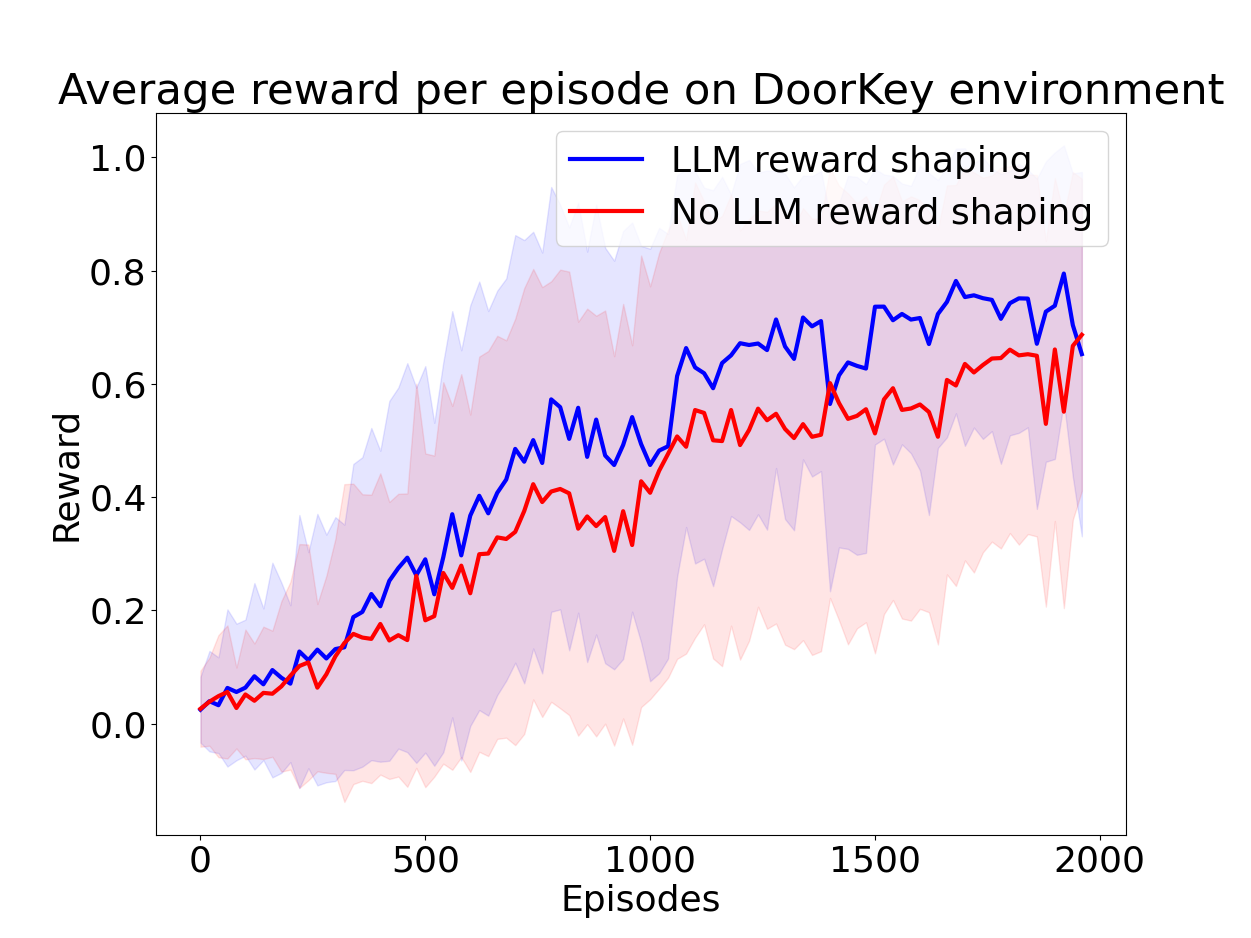
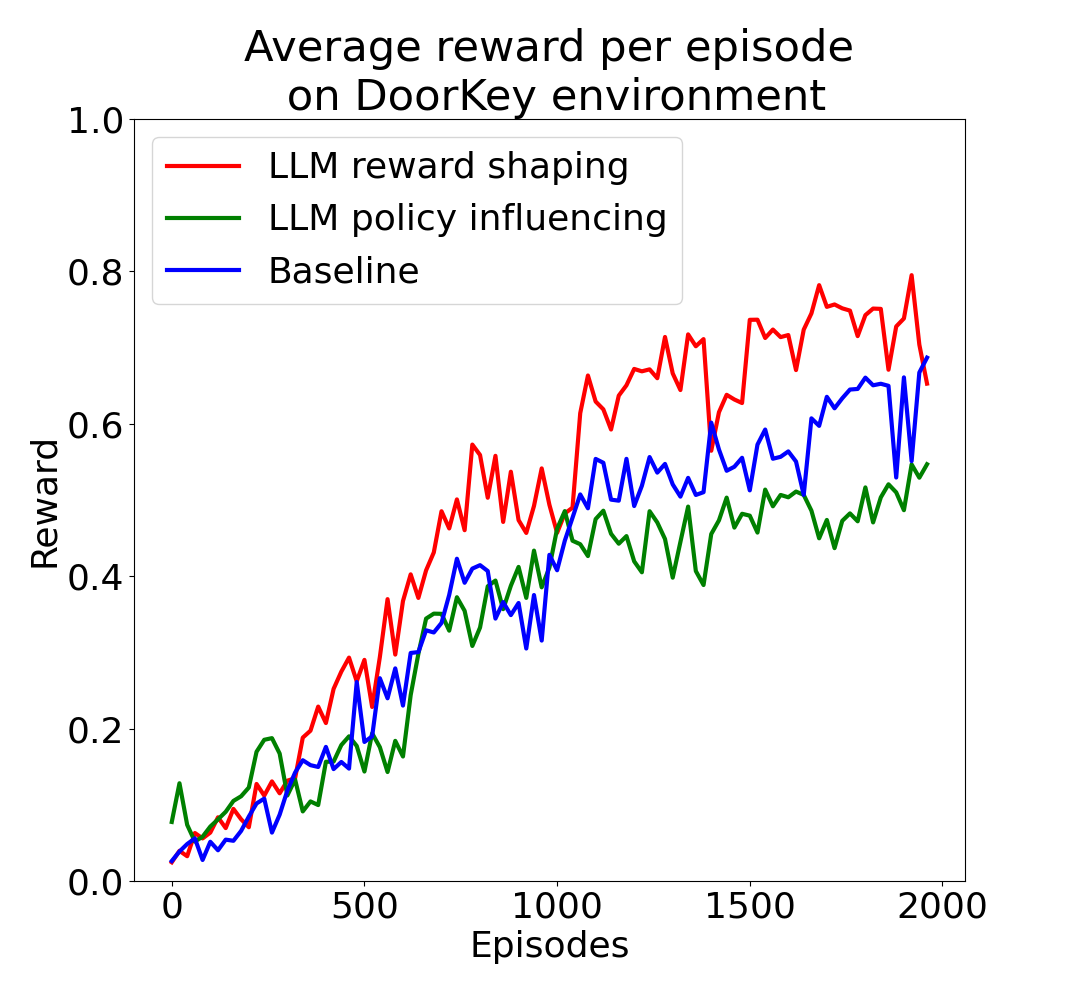
Update paper

diff --git a/doc/paper.tex b/doc/paper.tex
@@ -82,12 +82,12 @@ We train a PPO model in a Partially Observable Markov Decision Process (POMDP). 
 
 \subsection{Approach}
 
-To evaluate the effectiveness of the integration of LLMs into Reinforcement Learning algorithms, we use the \textbf{MiniGrid} and \textbf{BabyAI} libraries. Here, we handpick specific environments with varying levels of complexity, to evaluate the effectiveness of our proposed techniques against a standard Actor-Critic \ref{Proximal policy optimzation}, and against each other. The environments selected are all based in a small sized grid-world, where the agent is surrounded by walls, and has to perform at least one task to complete the game. How difficult an environment is to beat depends on factors such as the shape of the walls, whether the agent has to solve subtasks to finish the game, and the types of subtasks encountered. Moreover, what makes these environments especially well suited for testing our approach is that they are sparse in the context of MiniGrid and BabyAI. This means that the agent will only receive a reward when it finishes the game. It is a well known fact that even state-of-art RL algorithms struggle in very complex and sparse environments. Therefore, it becomes the perfect arena to see if the high generalization capabilites of pre-trained Large Language Models will lead to better results than using only RL methods.
+To evaluate the effectiveness of the integration of LLMs into Reinforcement Learning algorithms, we use the MiniGrid library. Here, we handpick specific environments with varying levels of complexity, to evaluate the effectiveness of our proposed techniques against a standard Actor-Critic PPO, and against each other. % The environments selected are all based in a small sized grid-world, where the agent is surrounded by walls, and has to perform at least one task to complete the game. How difficult an environment is to beat depends on factors such as the shape of the walls, whether the agent has to solve subtasks to finish the game, and the types of subtasks encountered. Moreover, what makes these environments especially well suited for testing our approach is that they are sparse in the context of MiniGrid and BabyAI. This means that the agent will only receive a reward when it finishes the game. It is a well known fact that even state-of-art RL algorithms struggle in very complex and sparse environments. Therefore, it becomes the perfect arena to see if the high generalization capabilites of pre-trained Large Language Models will lead to better results than using only RL methods.
 
 
 \subsubsection{Standard Proximal Policy Optimization}
 
-Our baseline is the \textbf{Proximal Policy Optimization} (PPO) algorithm, which has been established as a state-of-art approach to solving reinforcement learning problems over the last few years. The main idea behind this algorithm is that the new policy is clipped so that it does not move too quickly and too far from the old policy, i.e. the new policy cannot diverge too much from the old policy. This helps to avoid exceedingly large updates to policy gradients, thus also avoiding the problem of vanishing and exploding gradients. This has elevated the ability of RL-techniques to tackle sparse environments, and outperform older approches such as DQN. For a more detailed discussion of the mathematics and implementation details, see \cite{OpenAIPPO}
+Our baseline is the PPO algorithm, which is a policy gradient method that has been established as a state-of-art approach to solving reinforcement learning problems over the last few years. The main idea behind this algorithm is that the new policy is clipped so that it does not move too quickly and too far from the old policy, which helps to avoid changing the policy too drastically during the update. With this simple concept, PPO has outperformed previous methods such as Deep-Q Networks and A2C, while being relatively simple to implement\cite{ppo}.
 
 For the implementation details of our PPO and the hyperparameters used, take a look at Appendix X.X.
 
@@ -98,18 +98,22 @@ In this case, the LLM is integrated as part of the PPO algorithm, directly influ
 
 \subsubsection{PPO with LLM Integrated in the Reward Function}
 
-The agent is trained as in the baseline. The agent's state observation is encoded to natural text, and sent as part of a prompt to the LLM. This may be done at every timestep, or after some interval of timesteps. In addition to the state observation, the LLM is also asked to respond with a list of recommended actions for the agent to perform. The agent then acts independently of the LLM for that timestep, as dictated by the baseline RL algorithm it is trained with. As it does so, its chosen action is encoded to natural text. Then, the LLM is used as a tool for semantic similarity comparison, comparing its own formerly proposed action to the action performed by the agent. Finally, high semantic similarity gives an additional reward which is implemented in the reward function of the agent. 
+The agent is trained as in the baseline. The agent's state observation is encoded to natural text, and sent as part of a prompt to the LLM. This may be done at every timestep, or after some interval of timesteps. In addition to the state observation, the LLM is also asked to respond with a list of recommended actions for the agent to perform. The agent then acts independently of the LLM for that timestep, as dictated by the baseline RL algorithm it is trained with. As it does so, its chosen action is encoded to natural text. Then, the LLM is used as a tool for semantic similarity comparison, comparing its own formerly proposed action to the action performed by the agent. Finally, high semantic similarity gives an additional reward which is added to the reward of the environment. Compared to the policy influencing method above, this approach is less direct, as the policy is only indirectly affected by the LLM through these additional rewards.
 
-\subsection{Large Language Model used}
+\subsection{Language Models}
 
-For the purpose of our research, we have decided utilize a LLM from the Llama open-source family of language models developed by Meta AI, first released in Febraury, 2023. Specifically, we chose the newest of the models named Llama 2 \cite{llama}, which has been trained using 40\% more data than its predecessor Llama 1, and according to \cite{meta} has double the context length. In the experiments presented below, we use the smallest version of Llama2, with 7 billion parameters, which we download to run locally and reduce the bottleneck effect of having to call the API-version. The reason for not using any of the larger Llama 2 models is simply the hardware limitation we face, with the 7B model requiring 19GB of VRAM to be run. 
+In both these cases, we need two language models; one to generate the suggestions and one to generate semantic similarity values. For text generation, we have decided utilize an LLM from the Llama open-source family of language models developed by Meta AI, first released in Febraury, 2023. Specifically, we chose Llama 2, which has been trained using 40\% more data than its predecessor Llama 1, and has double the context length\cite{llama}. In the experiments presented below, we use the smallest version of Llama2, with 7 billion parameters, which we download to run locally and reduce the bottleneck effect of having to call an API to a model hosted by someone else. The reason for not using any of the larger Llama 2 models is simply the hardware limitation we face, with the 7B model requiring 19GB of VRAM to be run. 
 
-Many research papers nowadays propose fine-tuning of LLMs as means of leveraging the capabilites of the language models for decision-making purposes even further. Our plan of action, on the other hand, aims at evaluating the efficacy of the LLM without any previous pre-tuning. From the perspective of reinforcement learning, is is the appropriate course of action, as the LLM should not possess any previous knowledge about the task at hand, just like the agent should not. In addtion, the act of fine-tuning LLM is a rather time-comsuming process, requiring the generation and structuring of a new dataset, and also vast hardware resources. 
+Some research papers propose fine-tuning of LLMs as means of leveraging the capabilites of the language models for decision-making purposes even further \cite{grounding}. Our plan of action, on the other hand, aims at evaluating the efficacy of the LLM without any previous pre-tuning. From the perspective of reinforcement learning, is is the appropriate course of action, as the LLM should not possess any previous knowledge about the task at hand, just like the agent should not. In addtion, the act of fine-tuning LLM is a rather time-comsuming process, requiring the generation and structuring of a new dataset, and also vast hardware resources. 
+
+Instead of fine tuning the LLM, we use few-shot learning when prompting, giving the LLM a few examples of observations and correct corresponding action recommendations. This is an effective way to guide the LLM for our specific purposes without requiring us to retrain the entire network.
+
+For generating semantic similarity values, we use Sentence-Bert \cite{bert} for generating encoding vectors, and perform a cosine similarity calculation of the two sentence encodings. This gives a value between $-1$ and $1$, where two sentences with the exact same encoding have a cosine similarity of $1$.
 
 
 \section{Experiments}
 
-We perform experiments to compare different methods of integrating LLMs with the PPO algorithm, specifically comparing their ability to guide the early exploration of an RL model in a reward-sparse environment.
+We perform experiments to compare different methods of integrating LLMs with the PPO algorithm, specifically comparing their ability to guide the early exploration of an RL model in a reward-sparse environment. Even state-of-art RL algorithms may struggle in such environments. Therefore, it is the perfect arena to see if the high generalization capabilites of pre-trained Large Language Models will lead to better results over using only RL methods.
 
 \subsection{Minigrid Environments}
 
@@ -133,9 +137,37 @@ Some environments can only be effectively solved by relying on language (for exa
 
 \subsection{Our chosen environments}
 
-We select NUMBER different Minigrid environments; DoorKey, OTHERENV, OTHERENV. Example instances of these environments can be found in the appendix. For each environment we test our three different models; PPO with no LLM integration, PPO with LLM reward shaping and PPO with LLM policy optimization ***CONSIDER ALSO TESTING REWARD SHAPER + CONSIGLIERE TOGETHER***. All methods use the same hyperparameters for the PPO, which can be found in the appendix. For each of these methods, we run PPO for 2000 episodes of 1024 steps, and track the reward\footnote{The true environment reward, not including pseudo-rewards given by the LLM in reward shaping} received for each one. We do this eight times per method, and compare the average results against each other.
+We select three different Minigrid environments with increasing complexity; Empty, DoorKey and UnlockPickup. For each environment we test our three different models; PPO with no LLM integration, PPO with LLM reward shaping and PPO with LLM policy influencing. All methods use the same hyperparameters for the PPO, which can be found in the appendix. For each of these methods, we run PPO for 2000 (200 for Empty) episodes of 1024 steps, and track the reward\footnote{The true environment reward, not including pseudo-rewards given by the LLM in reward shaping} received for each one. We do this eight times per method, and compare the average results per episode against each other.
+
+\subsection{Empty Environment}
+
+This environment is the simplest possible, consisting of an empty room with a single goal in the bottom right corner. This environment contains no stochasticity; the agent and goal always start in the same positions. Despite its simplicity, there is still potential for LLM integration to improve the early phases of training, because the room is 15 by 15 tiles, which means that receiving any reward requires a significant amount of exploration. The environment is seen in figure \ref{emptyenv}.
+
+\begin{figure}[h]
+\centerline{\includegraphics[width=3.25in]{figure/emptyenv.png}}
+\caption{The Minigrid Empty Environment}
+\label{emptyenv}
+\end{figure}
+
+\subsubsection{DoorKey environment}
+
+This environment consists of two rooms separated by a locked door. Fig \ref{doorkeyenv} shows an example configuration. The agent starts in one room, while the goal square is in the other. The agent must pick up a key in the starting room, and use it on the door to gain access to the room containing the goal. This environment thus contains two subgoals; picking up the key and using it to unlock the door.
+
+\subsubsection{UnlockPickup environment}
+
+This environment is quite similar to the DoorKey environment. Fig \ref{unlockpickupenv} shows an example configuration. The difference is that after unlocking the door, the agent must now pick up a chest instead of walking to a goal square. Because the agent can only hold one item at a time, this requires dropping the key on an empty square, which introduces another subtask. Chests can also be opened like doors, but this removes the chest from the game and thus causes and instant failure of the task, as it can no longer be picked up. Thus, the agent must learn that using a key on a door is a valuable subtask, while using it on a chest is a bad idea. This added complexity makes it a much more difficult task than the previous two.
 
 \section{Results}
+
+\subsection{Empty Environment}
+
+In this simple environment, we see that both LLM reward shaping and LLM policy influencing outperform the baseline model. Averaging over all episodes for all eight runs per model, we find LLM policy influencing to perform best, receiving $30\%$ more reward than the baseline. LLM reward shaping similarly outperforms the baseline, receiving $10\%$ more reward. Given that policy influencing is a more direct approach, it makes sense that this method performs best, as the simple environment makes it likely that the LLM will suggest the best action the majority of the time.
+
+\begin{figure}[h]
+\centerline{\includegraphics[width=3.25in]{figure/emptyresults.png}}
+\caption{Reward per episode for the three different methods in the Empty environment}
+\label{doorkeyresults}
+\end{figure}
 
 \subsection{DoorKey environment}
 
@@ -147,23 +179,31 @@ We also notice a significant performance increase when using LLM policy optimiza
 
 \begin{figure}[h]
 \centerline{\includegraphics[width=3.25in]{figure/doorkeyresults.png}}
-\caption{Reward per episode for the three (two) different methods in the DoorKey environment}
+\caption{Reward per episode for the three different methods in the DoorKey environment}
 \label{doorkeyresults}
 \end{figure}
 
 \subsection{Unlock Pickup environment}
 
-The Unlock Pickup environment is an even more complex environment than DoorKey, thus giving rewards to the agent even more sparsely. As may be anticipated, this added complexity to the state space makes the LLM contribution even more significant to the RL performance.
+The Unlock Pickup environment is an even more complex environment than DoorKey, requiring a much longer string of actions to give out a reward. As may be anticipated, this added complexity to the state space makes the LLM contribution even more significant to the RL performance.
 
-Compared to the baseline PPO when averaged per episode over all 8 runs, LLM reward shaping gave a NUMBER\% increase in reward from the environment, with a standard deviation of NUMBER (PPO alone had a standard deviation of NUMBER). LLM policy optimization gave a NUMBER\% increase compared to the PPO baseline and a NUMBER\% increase compared to reward shaping. Also here giving the highest average reward per episode, the combination of reward shaping and policy optimization gave NUMBER\% more reward compared to the PPO baseline, NUMBER\% more than reward shaping and NUMBER\% higher than policy optimization.
+\begin{figure}[h]
+\centerline{\includegraphics[width=3.25in]{figure/unlockpickupresults.png}}
+\caption{Reward per episode for the three different methods in the UnlockPickup environment}
+\label{unlockpickupresults}
+\end{figure}
+
+Looking at figure \ref{unlockpickupresults}, we can see that all methods struggle. However, we see that the LLM aided methods are faring much better than vanilla PPO, which struggles to learn the correct policy in this complex environment. Given that terrible performance of the baseline, LLM reward shaping achieved a percentage increase of over $700\%$, which is not that impressive when the average reward from the baseline was close to zero. The baseline achieved an average reward of $0.0089$ (with a standard deviation of $0.015$), while LLM reward shaping achieved an average reward of $0.062$ (with a standard deviation of $0.081$).
+
+% LLM policy optimization gave a NUMBER\% increase compared to the PPO baseline and a NUMBER\% increase compared to reward shaping. 
 
 \section{Conclusion}
 
-It works man, dogski did it!
+As shown in the previously referenced work (\ref{background}), the integration of a Large Language Model into the Reinforcement Learning framework can improve model performance. In the Minigrid environments we have tested on, we have shown that LLM reward shaping gives increased performance across the board, which shows it to be a good candidate for reward shaping in many environments with sparse rewards. Our method of policy integration has not shown similar increases, giving lower rewards on average than the baseline.
 
-As shown in the previously referenced work (\ref{background}), the integration of a Large Language Model into the Reinforcement Learning framework can improve network performance. In the Minigrid environments we have tested on, DoorKey and Pickup Unlock, we have demonstrated so. This has been done both through the LLM shaping the RL reward function, and through the LLM influencing the action probabilities of the RL agent, as well as through combining these two methodologies.
+For the DoorKey environment, we found that LLM reward shaping gives a very significant $24\%$ increase in average rewards, aiding the agent in all stages of training. LLM policy influencing has sadly not given the same increase, underperforming in the more difficult environments.
 
-For the DoorKey environment, we found that all three methods surpassed the performance of our PPO baseline. 
+For the UnlockPickup environment, we find that all methods struggle to complete the goal, but that LLM-aided methods also here outperform vanilla PPO, achieving METRIC.
 
 \section*{Ethics Statement}
 
@@ -191,20 +231,12 @@ I would like to acknowledge myself for being a absolute legend.
 
 \section*{Appendix}
 
-% \begin{table*}[h]
-% \caption{PPO hyperparameters}
-% \begin{center}
-% \label{hyperparams}
-% \begin{tabular}{c | l l l l l l l l} 
-% % & & \\ % put some space after the caption
-% % \hline
-% Parameter & Gamma & Steps/episode & Epochs/episode & Batches/epoch & Clip & Value loss coeff. & Entropy coeff. & Learning rate \\
-% \hline
-% Value & 0.99 & 1024 & 10 & 8 & 0.2 & 0.3 & 0 & 3.0e-4 \\
-% \hline
-% \end{tabular}
-% \end{center}
-% \end{table*}
+\begin{figure}[h]
+\centerline{\includegraphics[width=3.25in]{figure/unlockpickupenv.png}}
+\caption{The Minigrid UnlockPickup environment}
+\label{unlockpickupenv}
+\end{figure}
+
 \begin{table*}[h]
 \caption{PPO hyperparameters}
 \begin{center}
